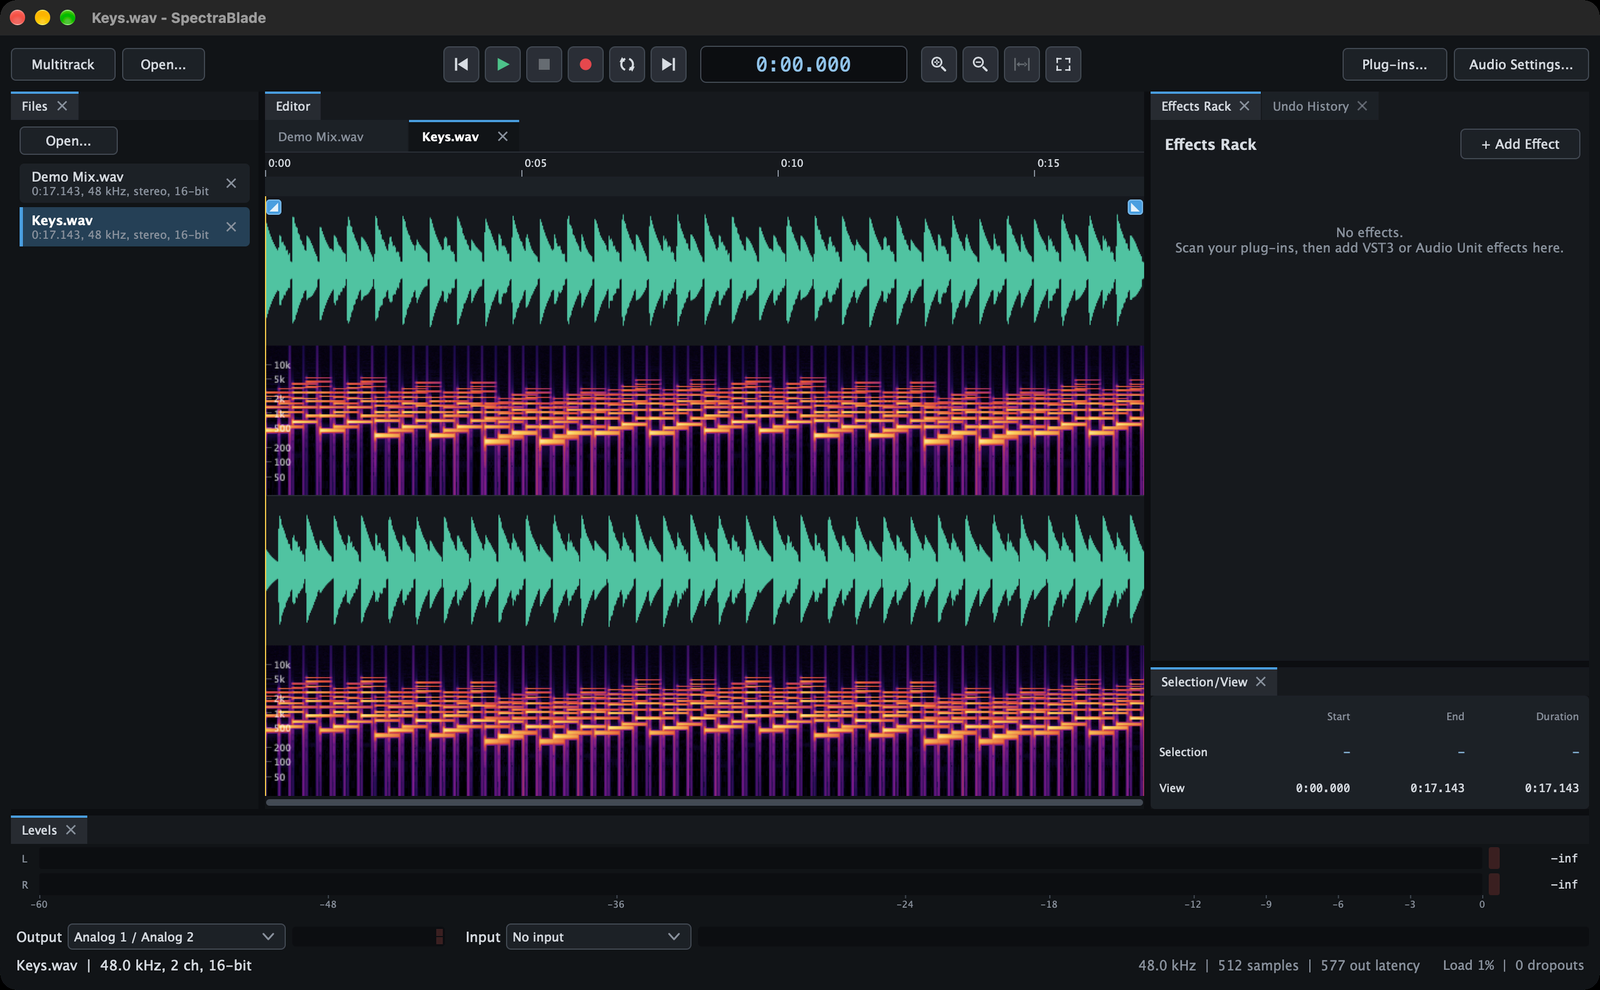
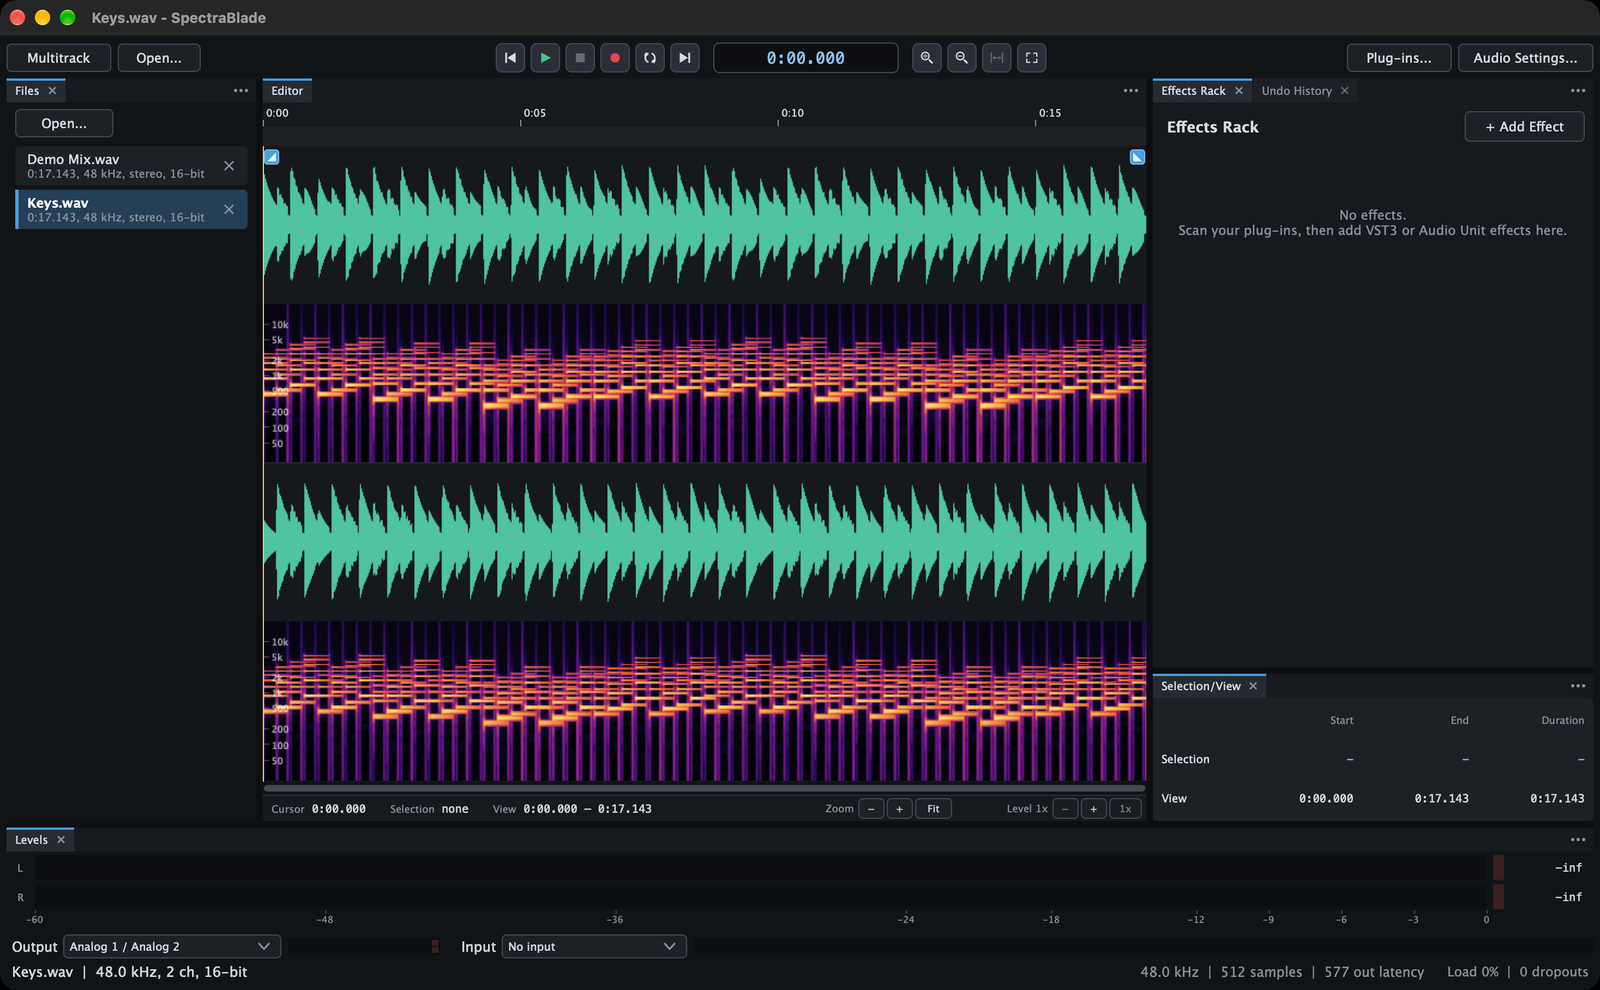
New screenshots
The README's screenshots retaken with the current build: the Files
panel without file tabs, the strip under the editor, and the panel
menus. 1010 checks pass.

diff --git a/Source/SpectralEdit.cpp b/Source/SpectralEdit.cpp
@@ -646,4 +646,3 @@ AudioDocument::Snapshot heal (const AudioSnapshot& snapshot, const Shape& shape,
     });
 }
 }
-

diff --git a/Source/WaveformView.cpp b/Source/WaveformView.cpp
@@ -1377,4 +1377,3 @@ void WaveformView::drawShape (juce::Graphics& g)
         }
     }
 }
-

diff --git a/README.md b/README.md
@@ -41,9 +41,9 @@ The formats marked "through ffmpeg" need [ffmpeg](https://ffmpeg.org) installed 
 
 ## Screenshots
 
-![The editor in the Editing workspace: two files open as tabs, a stereo file in the waveform and spectrogram view with its fade handles at the top corners, the Files panel, the effects rack and undo history, and the levels meter](docs/screenshots/editor.png)
+![The editor in the Editing workspace: two files open in the Files panel, a stereo file in the waveform and spectrogram view with its fade handles at the top corners and the time strip under it, the effects rack and undo history, the selection panel, and the levels meter](docs/screenshots/editor.png)
 
-The Editing workspace: two files open as tabs, the Files panel on the left, the effects rack and undo history on the right, and the levels meter below. The small handles at the waveform's top corners drag fades in and out.
+The Editing workspace: two files open in the Files panel on the left (click one to work on it; Window > File Tabs adds tabs over the editor), the effects rack, undo history and selection panel on the right, and the levels meter below. The small handles at the waveform's top corners drag fades in and out; the strip under the waveform shows the cursor, selection and view and holds the zoom controls.
 
 ![A multitrack session: four tracks and a reverb bus, with clips, fades, sends, markers and the mixer](docs/screenshots/multitrack.png)
 
